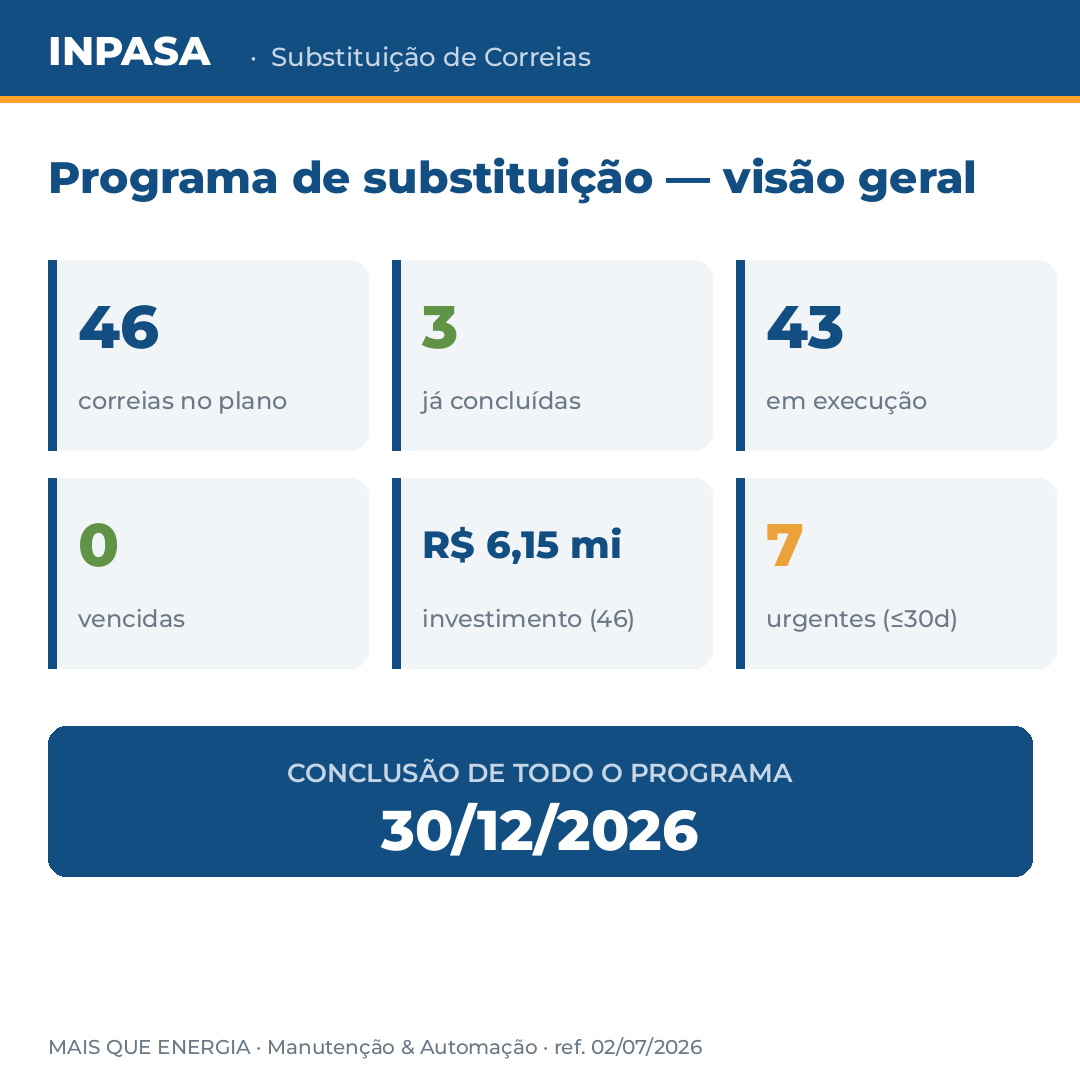
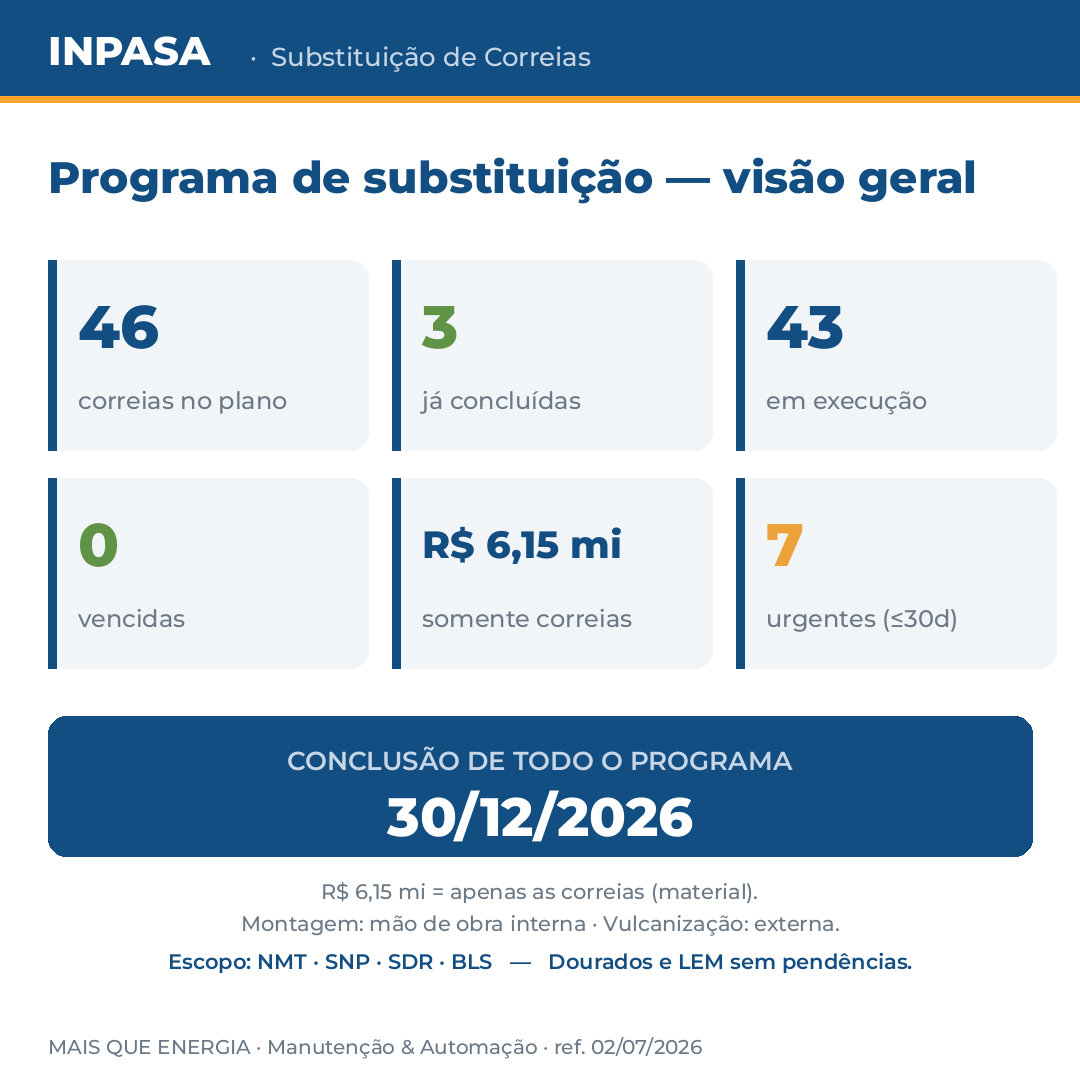
Incorpora observações: valor só material e escopo de unidades
- Esclarece que R$ 6,15 mi são apenas as correias (material);
  montagem com mão de obra interna, apenas vulcanização externa.
- Registra que Dourados (DRD) e LEM ficam fora por não terem
  pendências (escopo), não por omissão.

Claude-Session: https://claude.ai/code/session_01JAKYhBZ2VtJTfAk2iunizq

Changed region(s): [[0.0306, 0.6417, 0.9778, 0.9167], [0.3972, 0.55, 0.5806, 0.5806]]

diff --git a/plano_seguranca/gerar_pacote_estrategico.py b/plano_seguranca/gerar_pacote_estrategico.py
@@ -180,15 +180,17 @@ def build_pptx():
     rect(s,Inches(0.55),Inches(1.55),Inches(6.0),Inches(4.75),cCARD,rnd=True)
     txt(s,Inches(0.8),Inches(1.75),Inches(5.5),Inches(0.4),"Levantamento FLEXLAB (jun/2026)",size=15,bold=True,color=cAZUL)
     for i,(t,c) in enumerate([("148 correias auditadas no grupo",cTXT),("102 mantidas em operação",cMUT),
-        ("46 a substituir  →  R$ 6,15 mi",cTXT),("   • 41 reprovadas no ensaio ISO 340",cMUT),("   • 5 por degradação física",cMUT)]):
+        ("46 a substituir  →  R$ 6,15 mi (só correias)",cTXT),("   • 41 reprovadas no ensaio ISO 340",cMUT),("   • 5 por degradação física",cMUT)]):
         txt(s,Inches(0.85),Emu(int(Inches(2.35))+i*int(Inches(0.68))),Inches(5.5),Inches(0.66),("•  " if i in(0,2) else "")+t,size=13,color=c,bold=(i==2))
     rect(s,Inches(6.8),Inches(1.55),Inches(6.0),Inches(4.75),cCARD,rnd=True)
     txt(s,Inches(7.05),Inches(1.75),Inches(5.5),Inches(0.4),"Plano de execução (dashboard atual)",size=15,bold=True,color=cVERDE)
     for i,(t,c) in enumerate([(f"{TOTAL} correias no plano  ✓ bate com as 46",cTXT),(f"   • {CONCL} já concluídas",cMUT),
         (f"   • {TOTAL-CONCL} em execução",cMUT),(f"Conclusão: {fd(GLAST)}",cTXT),("0 correias vencidas",cMUT)]):
         txt(s,Inches(7.1),Emu(int(Inches(2.35))+i*int(Inches(0.68))),Inches(5.5),Inches(0.66),("•  " if i in(0,3) else "")+t,size=13,color=c,bold=(i in(0,3)))
-    txt(s,Inches(0.55),Inches(6.45),Inches(12.3),Inches(0.5),
-        "Obs.: cadastro do dashboard usa NVM/SDL — padronizar p/ os códigos oficiais NMT e SDR · confirmar unidades DRD e LEM · 1 dos 46 é sobressalente em estoque (45 esteiras físicas).",
+    txt(s,Inches(0.55),Inches(6.35),Inches(12.3),Inches(0.6),
+        "Obs.: R$ 6,15 mi = somente as correias (material) — montagem com mão de obra interna, apenas vulcanização externa · "
+        "Dourados (DRD) e LEM sem pendências (fora do escopo) · cadastro do dashboard usa NVM/SDL → padronizar p/ NMT/SDR · "
+        "1 dos 46 é sobressalente em estoque (45 esteiras físicas).",
         size=10.5,color=cTERRA)
     foot(s,4)
 
@@ -206,7 +208,7 @@ def build_pptx():
     for i,pz in enumerate(["PCM acionado para alinhar com TODAS as áreas cuidado reforçado até concluir a substituição das correias.",
         "Priorizar as correias urgentes de julho (biomassa/DDGS).",
         "Reporte quinzenal de avanço por unidade (concluídas x plano).",
-        "Padronizar cadastro (NVM/SDL → NMT/SDR) e confirmar DRD/LEM."]):
+        "Padronizar cadastro na origem (NVM/SDL → NMT/SDR)."]):
         txt(s,Inches(7.1),Emu(int(Inches(2.35))+i*int(Inches(0.95))),Inches(5.4),Inches(0.95),"•  "+pz,size=13,color=cTXT,sp=1.05)
     foot(s,5)
 
@@ -276,14 +278,14 @@ def build_pdf():
     # 4 RECONCILIACAO
     bg(); head("CONSISTÊNCIA DOS NÚMEROS","Reconciliação: levantamento × execução")
     box(0.55,1.55,6.0,4.75,CARDBG,rad=8); text(0.8,1.78,"Levantamento FLEXLAB (jun/2026)",15,AZUL,bold=True)
-    L=[("•  148 correias auditadas no grupo",TXTD),("102 mantidas em operação",MUT),("•  46 a substituir  ->  R$ 6,15 mi",TXTD),
+    L=[("•  148 correias auditadas no grupo",TXTD),("102 mantidas em operação",MUT),("•  46 a substituir  ->  R$ 6,15 mi (só correias)",TXTD),
        ("   - 41 reprovadas ISO 340",MUT),("   - 5 degradação física",MUT)]
     for i,(t,cc) in enumerate(L): text(0.85,2.35+i*0.62,t,13,cc,bold=(i==2))
     box(6.8,1.55,6.0,4.75,CARDBG,rad=8); text(7.05,1.78,"Plano de execução (dashboard atual)",15,VERDE,bold=True)
     R=[(f"•  {TOTAL} correias no plano  (bate com as 46)",TXTD),(f"   - {CONCL} já concluídas",MUT),
        (f"   - {TOTAL-CONCL} em execução",MUT),(f"•  Conclusão: {fd(GLAST)}",TXTD),("   - 0 correias vencidas",MUT)]
     for i,(t,cc) in enumerate(R): text(7.1,2.35+i*0.62,t,13,cc,bold=(i in(0,3)))
-    para(0.55,6.4,12.3,"Obs.: cadastro do dashboard usa NVM/SDL — padronizar p/ os códigos oficiais NMT e SDR · confirmar unidades DRD e LEM · 1 dos 46 é sobressalente em estoque (45 esteiras físicas).",10.5,TERRA); foot(4); c.showPage()
+    para(0.55,6.28,12.3,"Obs.: R$ 6,15 mi = somente as correias (material) — montagem com mão de obra interna, apenas vulcanização externa · Dourados (DRD) e LEM sem pendências (fora do escopo) · cadastro do dashboard usa NVM/SDL -> padronizar p/ NMT/SDR · 1 dos 46 é sobressalente em estoque (45 esteiras).",10,TERRA); foot(4); c.showPage()
     # 5 ACAO
     bg(); head("DECISÃO E AÇÃO","Cuidado especial até concluir a substituição")
     box(0.55,1.55,6.0,4.75,CARDBG,rad=8); text(0.8,1.78,"Pontos de atenção",15,TERRA,bold=True)
@@ -297,7 +299,7 @@ def build_pdf():
     B=["PCM acionado para alinhar com TODAS as áreas cuidado reforçado até concluir a substituição.",
        "Priorizar as correias urgentes de julho (biomassa/DDGS).",
        "Reporte quinzenal de avanço por unidade.",
-       "Padronizar cadastro (NVM/SDL -> NMT/SDR) e confirmar DRD/LEM."]
+       "Padronizar cadastro na origem (NVM/SDL -> NMT/SDR)."]
     ty=2.35
     for r in B: para(7.1,ty,5.4,"•  "+r,12,TXTD,lead=15); ty+=0.88
     foot(5); c.save(); print("PDF:",path)
@@ -321,7 +323,7 @@ def img_escopo():
     h=1080; im,d=new_img(h); brand(d,h)
     d.text((48,150),"Programa de substituição — visão geral",font=F('ExtraBold',44),fill=iAZUL)
     kpis=[("46","correias no plano",iAZUL),("3","já concluídas",iVERDE),("43","em execução",iAZUL),
-          ("0","vencidas",iVERDE),("R$ 6,15 mi","investimento (46)",iAZUL),("7","urgentes (≤30d)",iOURO)]
+          ("0","vencidas",iVERDE),("R$ 6,15 mi","somente correias",iAZUL),("7","urgentes (≤30d)",iOURO)]
     x0,y0,cw,chh,gx,gy=48,260,320,190,24,28
     for i,(v,lb,cc) in enumerate(kpis):
         r,cidx=divmod(i,3); x=x0+cidx*(cw+gx); y=y0+r*(chh+gy)
@@ -330,10 +332,14 @@ def img_escopo():
         vs=60 if len(v)<=3 else (44 if len(v)<=6 else 38)
         d.text((x+30,y+66),v,font=F('ExtraBold',vs),fill=cc,anchor='lm')
         d.text((x+30,y+140),lb,font=F('Medium',24),fill=iMUT,anchor='lm')
-    yb=y0+2*(chh+gy)+30
-    d.rounded_rectangle([48,yb,Wp-48,yb+150],radius=18,fill=iAZUL)
-    d.text((Wp//2,yb+46),"CONCLUSÃO DE TODO O PROGRAMA",font=F('SemiBold',26),fill=hx('#C7D6E6'),anchor='mm')
-    d.text((Wp//2,yb+104),fd(GLAST),font=F('ExtraBold',56),fill=iBR,anchor='mm')
+    yb=y0+2*(chh+gy)+20
+    d.rounded_rectangle([48,yb,Wp-48,yb+140],radius=18,fill=iAZUL)
+    d.text((Wp//2,yb+44),"CONCLUSÃO DE TODO O PROGRAMA",font=F('SemiBold',26),fill=hx('#C7D6E6'),anchor='mm')
+    d.text((Wp//2,yb+100),fd(GLAST),font=F('ExtraBold',54),fill=iBR,anchor='mm')
+    ny=yb+175
+    d.text((Wp//2,ny),"R$ 6,15 mi = apenas as correias (material).",font=F('Medium',21),fill=iMUT,anchor='mm')
+    d.text((Wp//2,ny+32),"Montagem: mão de obra interna · Vulcanização: externa.",font=F('Medium',21),fill=iMUT,anchor='mm')
+    d.text((Wp//2,ny+70),"Escopo: NMT · SNP · SDR · BLS   —   Dourados e LEM sem pendências.",font=F('SemiBold',21),fill=iAZUL,anchor='mm')
     path=os.path.join(OUT,"img_grupo_1_escopo.png"); im.save(path); print("IMG:",path)
 
 def img_unidades():
